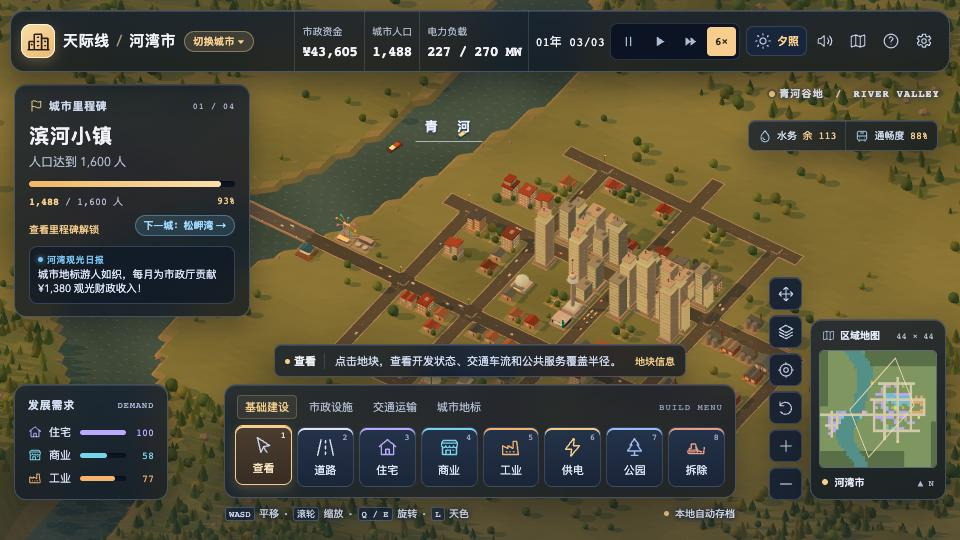
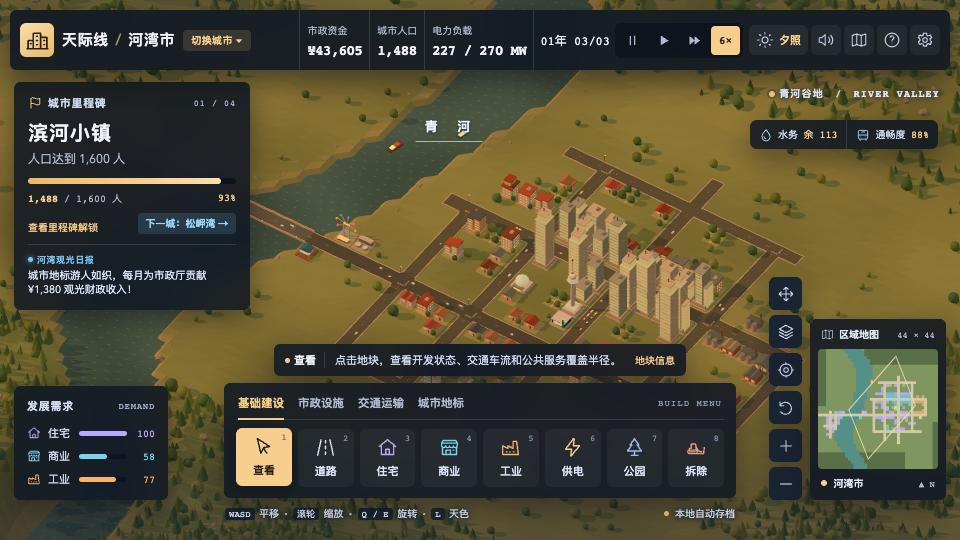
Publish 天际线 · 河湾市 to game wall

diff --git a/riverbend-skyline/index.html b/riverbend-skyline/index.html
@@ -4235,7 +4235,7 @@ void main() {
 <script>(() => {
   const THREE = window.THREE;
   const styleEl = document.createElement('style');
-  styleEl.textContent = ":root {\n  color-scheme:dark;\n  --text:#f1f2f7;\n  --muted:#aeb9ce;\n  --dim:#8e9ab3;\n  --accent:#f7ce8d;\n  --panel:#172133f5;\n  --rule:#d2e0fd25;\n  --mono:\"SFMono-Regular\",\"Cascadia Mono\",\"Consolas\",monospace;\n  font-family:\"Avenir Next\",\"PingFang SC\",\"Microsoft YaHei\",sans-serif;\n  font-synthesis:none;\n}\n* { box-sizing:border-box; }\nbody { margin:0; overflow:hidden; color:var(--text); background:#192235; user-select:none; -webkit-user-select:none; -webkit-touch-callout:none; overscroll-behavior:none; }\nbutton, input { font:inherit; }\nbutton { cursor:pointer; color:inherit; }\nbutton:focus-visible, canvas:focus-visible, input:focus-visible { outline:2px solid var(--accent); outline-offset:3px; }\n[hidden] { display:none !important; }\n.symbol-bank { display:block; width:0; height:0; position:absolute; }\n.icon { width:20px; height:20px; fill:none; stroke:currentColor; stroke-width:1.6; stroke-linecap:round; stroke-linejoin:round; flex:none; }\n#game { position:relative; width:100vw; height:100dvh; overflow:hidden; isolation:isolate; }\n#world { width:100%; height:100%; display:block; touch-action:none; cursor:crosshair; }\n#world[data-pan] { cursor:grabbing; }\n.scene-shade { position:absolute; inset:0; pointer-events:none; background:linear-gradient(180deg,#14243a30 0,transparent 18%,transparent 73%,#101d365e 100%); z-index:1; }\n.panel { background:linear-gradient(165deg,rgba(21,33,52,.82),rgba(14,23,38,.76)); border:1px solid rgba(190,214,255,.24); border-radius:12px; box-shadow:0 12px 30px rgba(7,12,24,.38), inset 0 1px rgba(255,255,255,.12); z-index:2; backdrop-filter:blur(16px) saturate(1.35); -webkit-backdrop-filter:blur(16px) saturate(1.35); }\n.topbar { height:62px; position:absolute; top:10px; left:16px; right:16px; display:flex; align-items:center; gap:14px; padding:0 16px; background:linear-gradient(180deg,rgba(19,30,48,.84),rgba(13,22,36,.78)); border:1px solid rgba(190,214,255,.26); border-radius:14px; box-shadow:0 12px 32px rgba(7,12,24,.42), inset 0 1px rgba(255,255,255,.14); backdrop-filter:blur(18px) saturate(1.4); -webkit-backdrop-filter:blur(18px) saturate(1.4); z-index:3; }\n.brand { display:flex; align-items:center; gap:11px; flex:1 0 auto; }\n.brand-row { display:flex; align-items:center; gap:8px; }\n.city-switcher { background:rgba(247,206,141,.14); border:1px solid rgba(247,206,141,.42); color:var(--accent); border-radius:999px; padding:2px 8px; font-size:10px; font-weight:600; letter-spacing:.04em; transition:background .15s,transform .15s; white-space:nowrap; }\n.city-switcher:hover { background:rgba(247,206,141,.26); transform:translateY(-1px); }\n.city-stars { color:var(--accent); letter-spacing:.08em; margin-left:4px; }\n.brand-mark { width:38px; height:38px; border-radius:10px; display:grid; place-items:center; background:linear-gradient(145deg,#fae0ab,#e8b86d); color:#2b1f14; box-shadow:0 4px 12px rgba(247,206,141,.25), inset 0 0 0 1px #fff3d6; }\n.brand-mark .icon { width:25px; height:25px; stroke-width:1.45; }\nh1 { font-size:17px; margin:0 0 2px; font-weight:700; letter-spacing:.045em; }\nh1 span { color:#a89476; font-weight:500; margin:0 2px; }\n.brand-caption { font:9px var(--mono); color:#9daac3; letter-spacing:.19em; }\n.brand-caption span { color:var(--accent); }\n.telemetry { align-self:stretch; display:flex; }\n.metric { display:flex; align-items:center; gap:9px; padding:0 clamp(11px,1.4vw,22px); background:transparent; border:0; border-left:1px solid var(--rule); color:var(--text); text-align:left; white-space:nowrap; }\nbutton.metric:hover { background:#c7dbff13; }\n.metric:last-child { border-right:1px solid var(--rule); }\n.metric-icon { width:18px; height:18px; color:#a9bad6; margin-right:1px; }\n.metric-power .metric-icon { color:#f0be83; }\n.metric-label { display:block; color:var(--muted); font-size:10px; margin-bottom:4px; }\n.metric strong { display:block; font:600 16px var(--mono); letter-spacing:-.04em; }\n.delta { color:var(--accent); font:10px var(--mono); margin-top:14px; }\n.delta.negative, .warning { color:#f4aa92; }\n.time-controls { display:flex; align-items:center; gap:14px; }\n.date { white-space:nowrap; }\n.date span { display:block; color:var(--muted); font-size:10px; margin-bottom:4px; }\n.date strong { display:block; font:12px var(--mono); }\n.speed { display:flex; align-items:center; gap:2px; background:#0c1423; border:1px solid var(--rule); border-radius:7px; padding:3px; }\n.speed button { width:29px; height:29px; border-radius:4px; border:0; background:transparent; color:#aebcd5; display:grid; place-items:center; font:600 11px var(--mono); padding:0; }\n.speed .icon { width:17px; height:17px; }\n.speed button:hover, .icon-button:hover { background:#a6c4ff26; color:var(--text); }\n.speed button[aria-pressed=true] { background:var(--accent); color:#2d2218; }\n.utilities { display:flex; gap:5px; align-items:center; }\n.icon-button { width:34px; height:34px; display:grid; place-items:center; padding:0; border:1px solid transparent; border-radius:7px; background:transparent; color:#c5d1e8; transition:background .14s,border-color .14s; }\n#lighting-button { width:auto; display:inline-flex; align-items:center; gap:5px; padding:0 9px; border-color:#b3c6ee2e; background:#19253b; }\n.util-tag { font:600 11px var(--mono); color:var(--accent); }\n#sound-button[aria-pressed=false] { opacity:.48; }\n.icon-button.panel { border-color:#b3c6ee36; background:var(--panel); }\n.icon-button.panel:hover, .icon-button[aria-expanded=true] { background:#304465; }\n.icon-button.panel[aria-pressed=true] { background:#473b31; border-color:var(--accent); color:var(--accent); }\n.icon-button .icon { width:18px; height:18px; }\n.objective { position:absolute; top:84px; left:16px; width:236px; padding:13px 14px 12px; }\n.eyebrow { color:#d5dff4; font-size:11px; font-weight:600; letter-spacing:.065em; display:flex; align-items:center; gap:6px; }\n.eyebrow .icon { width:14px; height:14px; color:var(--accent); }\n.eyebrow > span { margin-left:auto; color:#a9b8d6; font:9px var(--mono); letter-spacing:.075em; }\n.objective h2, .inspector h2 { margin:8px 0 3px; font-size:20px; letter-spacing:.05em; }\n.objective p, .inspector p { margin:0; color:var(--muted); font-size:12px; }\n.progress, .meter { border-radius:20px; background:#0c1424; box-shadow:inset 0 1px 2px #0007; overflow:hidden; }\n.progress { height:6px; margin-top:11px; }\n.progress div { height:100%; border-radius:inherit; background:linear-gradient(90deg,#f0b865,#fae0ab); width:0; transition:width .35s ease; }\n.goal-foot { display:flex; justify-content:space-between; margin-top:7px; font:10px var(--mono); color:var(--muted); }\n.goal-foot strong, #goal-percent { color:var(--accent); }\n.objective-actions { display:flex; justify-content:space-between; align-items:center; gap:6px; margin-top:5px; }\n.goal-next { border:1px solid rgba(121,197,243,.4); background:rgba(121,197,243,.14); color:#9fd8ff; border-radius:999px; font-size:10px; padding:2px 8px; font-weight:600; }\n.goal-next:hover { background:rgba(121,197,243,.26); }\n.chirper { margin-top:9px; width:100%; text-align:left; background:rgba(12,21,36,.62); border:1px solid rgba(166,207,245,.22); border-radius:8px; padding:6px 8px; display:grid; gap:2px; transition:border-color .15s,background .15s; }\n.chirper:hover { border-color:rgba(247,206,141,.5); background:rgba(19,32,52,.78); }\n.chirper-tag { font:600 9px var(--mono); color:#79c5f3; letter-spacing:.06em; display:flex; align-items:center; gap:4px; }\n.chirper-tag::before { content:\"\"; width:5px; height:5px; border-radius:50%; background:currentColor; box-shadow:0 0 6px currentColor; }\n.chirper-msg { font-size:10.5px; line-height:1.38; color:#dce6fa; display:-webkit-box; -webkit-line-clamp:2; -webkit-box-orient:vertical; overflow:hidden; }\n.view-tag { position:absolute; right:20px; top:86px; color:#f1f5ff; font:600 10px var(--mono); letter-spacing:.12em; text-shadow:0 1px 6px #152240; pointer-events:none; z-index:2; }\n.view-tag span { display:inline-block; background:#f7ce8d; border-radius:50%; width:6px; height:6px; margin-right:4px; box-shadow:0 0 0 2px #15254150; }\n.view-tag b { color:#f3d6af; margin:0 4px; }\n.world-labels { position:absolute; inset:0; pointer-events:none; z-index:1; }\n.district { position:absolute; border-radius:4px; transform:translate(-50%,-50%); background:#19263ae0; border:1px solid #bdd1f17c; color:#eef3ff; font-size:11px; font-weight:600; padding:5px 9px; white-space:nowrap; letter-spacing:.085em; box-shadow:0 3px 9px #0c122b55; transition:opacity .18s; }\n.district span { font:9px var(--mono); color:#f3cb90; border-right:1px solid #adbcdc66; padding-right:5px; margin-right:3px; }\n.water-label { border:0; border-bottom:1px solid #e8f1ffa0; border-radius:0; background:transparent; box-shadow:none; font-size:13px; letter-spacing:.25em; text-shadow:0 1px 3px #1a325c; }\n.demand { position:absolute; left:22px; bottom:40px; width:196px; padding:12px 13px 13px; }\n.demand .eyebrow { margin-bottom:11px; }\n.demand-row { display:grid; grid-template-columns:15px 25px 1fr 22px; gap:6px; align-items:center; font-size:11px; color:#d3ddf1; }\n.demand-row+.demand-row { margin-top:7px; }\n.demand-row .icon { width:14px; height:14px; color:var(--zone); }\n.demand-row b { font:10px var(--mono); color:var(--zone); text-align:right; }\n.meter { height:5px; }\n.meter i { display:block; background:var(--zone); border-radius:inherit; height:100%; transition:width .3s; }\n.map-dock { position:absolute; right:22px; bottom:40px; display:grid; grid-template-columns:auto auto; gap:8px; align-items:end; z-index:2; }\n.map-actions { display:flex; flex-direction:column; gap:5px; }\n.map-actions .icon-button { width:33px; height:33px; }\n.layer-menu { position:absolute; bottom:184px; right:0; width:147px; padding:8px; }\n.layer-menu .eyebrow { margin:4px 5px 7px; }\n.layer-menu button { display:block; width:100%; background:transparent; border:0; text-align:left; border-radius:4px; padding:7px 8px; font-size:12px; }\n.layer-menu button:hover, .layer-menu button[aria-pressed=true] { background:#f7ce8d24; color:var(--accent); }\n.minimap { width:185px; padding:8px; }\n.minimap-head, .minimap-foot { display:flex; align-items:center; gap:5px; padding:0 3px 7px; font-size:10px; color:#e3eaf9; }\n.minimap-head .icon { width:13px; height:13px; color:#b2c5e6; }\n.minimap-head span, .minimap-foot span:last-child { margin-left:auto; font:9px var(--mono); color:var(--muted); }\n.minimap canvas { width:100%; height:auto; aspect-ratio:1/1; display:block; border:1px solid #bfd2f75f; border-radius:5px; cursor:crosshair; }\n.minimap-foot { padding:7px 3px 1px; }\n.minimap-foot i, .save-status i, .toolbox-title i, .tool-state i { display:inline-block; width:6px; height:6px; border-radius:50%; background:var(--accent); margin-right:4px; vertical-align:1px; }\n.build-dock { position:absolute; bottom:19px; left:50%; transform:translateX(-50%); width:min(584px,calc(100% - 492px)); z-index:2; }\n.tool-info { margin:0 auto 7px; display:flex; align-items:center; gap:10px; width:fit-content; max-width:100%; min-height:33px; padding:6px 10px; color:#d1dcf1; font-size:11px; border-radius:7px; }\n.tool-state { white-space:nowrap; color:var(--text); border-right:1px solid var(--rule); padding-right:8px; }\n.tool-state i { width:5px; height:5px; }\n.tool-price { white-space:nowrap; color:var(--accent); font:10px var(--mono); padding-left:4px; }\n.toolbox { padding:10px; }\n.toolbox-title { display:flex; justify-content:space-between; align-items:center; padding:0 2px 8px; gap:8px; }\n.toolbox-title span { font-size:11px; font-weight:650; letter-spacing:.06em; }\n.toolbox-title i { width:5px; height:5px; }\n.toolbox-title b { color:var(--dim); font:9px var(--mono); letter-spacing:.11em; }\n.tools { display:grid; grid-template-columns:repeat(8,minmax(0,1fr)); gap:5px; }\n.tool { position:relative; border-radius:8px; min-width:0; height:60px; display:grid; justify-items:center; align-content:center; gap:4px; background:linear-gradient(180deg,rgba(36,52,78,.88),rgba(25,37,58,.88)); border:1px solid rgba(183,204,242,.18); box-shadow:inset 0 2px 0 var(--tool); padding:0; transition:background .15s,border-color .15s,transform .15s; }\n.tool .icon { width:21px; height:21px; color:var(--tool); }\n.tool span { font-size:11px; color:#e1e9fc; }\n.tool kbd { position:absolute; right:5px; top:4px; color:#9baacc; font:9px var(--mono); }\n.tool .unlock-tag { position:absolute; bottom:2px; right:3px; font:600 8px var(--mono); color:#f3cb90; background:rgba(15,23,38,.85); padding:0 3px; border-radius:3px; }\n.tool:hover { background:linear-gradient(180deg,rgba(50,72,106,.92),rgba(34,50,76,.92)); border-color:rgba(195,212,247,.45); transform:translateY(-2px); }\n.tool[aria-pressed=true] { background:linear-gradient(180deg,rgba(78,63,48,.95),rgba(56,45,35,.95)); border-color:var(--accent); box-shadow:inset 0 2px 0 var(--accent), 0 4px 12px rgba(247,206,141,.2); transform:translateY(-2px); }\n.tool[aria-pressed=true] span, .tool[aria-pressed=true] kbd { color:#ffe9c6; }\n.build-footer { display:flex; justify-content:space-between; padding:8px 1px 0; gap:8px; color:#edf2ff; font-size:10px; text-shadow:0 1px 4px #142139,0 0 10px #192843; white-space:nowrap; }\n.build-footer kbd { font:9px var(--mono); background:#142541b8; border:1px solid #bccfee55; border-radius:3px; padding:1px 3px; margin-right:2px; }\n.build-footer b { margin:0 3px; color:#c5d2ea; }\n.save-status i { width:5px; height:5px; }\n.inspector { position:absolute; width:236px; left:16px; top:298px; padding:12px 13px; z-index:2; }\n.inspector .eyebrow { justify-content:space-between; }\n.inspector .icon-button { width:24px; height:24px; margin:-5px; }\n.inspect-coord { color:var(--dim); font:10px var(--mono); border-top:1px solid var(--rule); padding-top:8px; margin-top:10px; }\n#toast { position:absolute; left:50%; top:91px; z-index:5; transform:translate(-50%,-6px); color:#eef3ff; background:#202e46; border:1px solid #f7ce8d73; border-radius:7px; padding:8px 12px; font-size:12px; opacity:0; transition:opacity .16s,transform .16s; pointer-events:none; white-space:nowrap; }\n#toast.show { opacity:1; transform:translate(-50%,0); }\n#toast.error { border-color:#eaa287; color:#ffcfbc; }\n.boot { position:absolute; inset:0; background:#121b2d; display:flex; flex-direction:column; align-items:center; justify-content:center; z-index:10; }\n.boot h2 { margin:14px 0 0; font-size:20px; }\n.boot p { color:var(--muted); margin:6px 0; font-size:13px; text-align:center; }\ndialog { width:min(430px,calc(100vw - 28px)); border:1px solid #b9ccf35c; border-radius:12px; background:#172238; color:var(--text); padding:21px; box-shadow:0 15px 80px #0008; }\ndialog::backdrop { background:#0a1325a8; backdrop-filter:blur(3px); }\n.dialog-top { display:flex; align-items:center; justify-content:space-between; }\n.dialog-top .icon-button { margin:-9px -8px -3px 0; }\ndialog h2 { margin:11px 0 14px; font-size:23px; }\ndialog p, dialog li { color:#d0dbef; font-size:13px; line-height:1.65; }\ndialog ol { padding-left:1.4em; }\ndialog li+li { margin-top:6px; }\n.dialog-grid { display:grid; grid-template-columns:1fr auto; gap:9px 12px; padding:10px 0 13px; border-bottom:1px solid var(--rule); font-size:13px; }\n.dialog-grid output { font:12px var(--mono); }\n.tax-row { display:flex; justify-content:space-between; align-items:center; margin-top:14px; font-size:13px; }\n.tax-range { width:100%; accent-color:#f7ce8d; margin:10px 0 5px; }\n.dialog-buttons { display:flex; gap:8px; flex-wrap:wrap; }\n.dialog-button { padding:8px 13px; background:#263752; border:1px solid #b6c9f052; border-radius:6px; font-size:12px; }\n.dialog-button:hover { background:#344c73; }\n.dialog-button.primary { color:#282015; background:var(--accent); }\n.dialog-button.danger { color:#ffd0bb; border-color:#edab925c; }\n\n.brand em, .brand-caption b { font:inherit; }\n.goal-detail { border:0; background:transparent; color:var(--accent); font-size:10px; padding:4px 0 0; }\n.goal-detail:hover { text-decoration:underline; }\n.objective .goal-detail { margin-top:5px; }\n.city-status { position:absolute; right:22px; top:120px; display:flex; gap:0; border-radius:7px; z-index:2; }\n.city-status button { display:flex; align-items:center; gap:5px; padding:7px 9px; background:transparent; border:0; font-size:10px; color:#d3ddf1; }\n.city-status button + button { border-left:1px solid var(--rule); }\n.city-status button:hover { background:#acc5fa16; }\n.city-status .icon { width:14px; height:14px; color:#a6cff5; }\n.city-status strong { margin-left:3px; color:var(--accent); font:10px var(--mono); }\n.city-status strong.warning { color:#ffab95; }\n.build-tabs { display:flex; gap:4px; flex-wrap:wrap; }\n.build-tabs button { background:transparent; border:1px solid transparent; border-radius:4px; padding:3px 7px; color:var(--muted); font-size:11px; }\n.build-tabs button:hover { color:var(--text); }\n.build-tabs button[aria-pressed=true] { color:var(--accent); border-color:#f7ce8d39; background:#f7ce8d12; }\n.tool.is-locked { border-style:dashed; }\n.tool.is-locked .icon, .tool.is-locked span { opacity:.63; }\n.tool .lock-icon { position:absolute; top:4px; right:4px; width:12px; height:12px; color:#e0be89; }\n.tools[data-group=services] { grid-template-columns:repeat(6,minmax(0,1fr)); }\n.tools[data-group=transport] { grid-template-columns:repeat(4,minmax(0,1fr)); }\n.tools[data-group=landmarks] { grid-template-columns:repeat(3,minmax(0,1fr)); }\n.tools[data-group=services] .tool span { font-size:10px; }\n.dialog-list { display:grid; gap:8px; max-height:52vh; overflow:auto; padding-right:2px; }\n.dialog-entry { border:1px solid var(--rule); background:rgba(16,26,43,.85); border-radius:8px; padding:10px 11px; }\n.dialog-entry + .dialog-buttons { margin-top:8px; }\n.dialog-entry-head { display:flex; justify-content:space-between; align-items:center; gap:8px; margin-bottom:4px; }\n.dialog-entry h3 { margin:0; font-size:13px; }\n.trophy-pill { font:600 10px var(--mono); color:var(--accent); background:rgba(247,206,141,.14); border:1px solid rgba(247,206,141,.35); border-radius:999px; padding:1px 7px; white-space:nowrap; }\n.slot-meta { font:10px var(--mono); color:var(--muted); margin:0 0 7px; }\n.save-textarea { width:100%; min-height:64px; background:#0d1626; border:1px solid var(--rule); border-radius:6px; color:var(--text); font:10px var(--mono); padding:6px 8px; resize:vertical; margin:6px 0; }\n.dialog-entry p { margin:0 0 7px; font-size:11px; }\n.dialog-entry .dialog-buttons { gap:6px; }\n.dialog-entry .dialog-button { padding:5px 8px; font-size:11px; }\n.dialog-stat { display:flex; justify-content:space-between; align-items:center; gap:8px; font-size:12px; padding:6px 0; border-bottom:1px solid var(--rule); }\n.dialog-stat strong { color:var(--accent); font:11px var(--mono); text-align:right; }\n.dialog-stat strong.complete { color:#92c6f5; }\n.layer-menu { max-height:min(320px,54dvh); overflow:auto; }\n\n@media(max-width:1100px) {\n  .topbar { gap:6px; padding:0 10px; left:10px; right:10px; }\n  .brand { gap:8px; }\n  .brand-mark { width:34px; height:34px; }\n  h1 { font-size:15px; white-space:nowrap; }\n  .brand-caption,.metric-icon,.date span { display:none; }\n  .time-controls { gap:5px; }\n  .metric { padding:0 7px; }\n  .metric strong { font-size:14px; }\n  .delta { display:none; }\n  .utilities { gap:3px; }\n  .icon-button { width:30px; height:30px; }\n  #lighting-button { padding:0 7px; white-space:nowrap; }\n  .build-dock { width:min(512px,calc(100% - 396px)); }\n  .minimap { width:136px; }\n  .demand { width:154px; }\n  .map-dock { right:14px; }\n  .demand,.objective,.inspector { left:14px; }\n}\n@media(max-width:850px) {\n  .brand-caption,.metric-power,.metric-icon,.date span,.util-tag { display:none; }\n  #lighting-button { width:34px; padding:0; justify-content:center; }\n  .brand { gap:8px; }\n  .brand-mark { width:31px; height:31px; }\n  .brand-mark .icon { width:20px; height:20px; }\n  h1 { font-size:14px; }\n  .topbar { height:56px; top:8px; left:10px; right:10px; }\n  .objective { top:72px; }\n  .view-tag { top:76px; }\n  #toast { top:70px; }\n  .demand,.map-dock { bottom:155px; }\n  .minimap { width:125px; }\n  .build-dock { width:min(540px,calc(100% - 30px)); }\n  .map-actions .icon-button { width:28px; height:28px; }\n  .layer-menu { bottom:171px; }\n  .city-status { right:14px; top:98px; }\n  .inspector { top:286px; }\n}\n@media(max-width:570px) {\n  .topbar { height:78px; top:6px; left:8px; right:8px; flex-wrap:wrap; align-content:space-evenly; gap:2px 4px; padding:0 9px; }\n  .brand { order:0; flex:1 1 auto; min-width:0; gap:6px; }\n  .brand-mark { width:26px; height:26px; }\n  h1 { font-size:12.5px; white-space:nowrap; }\n  .utilities { order:1; flex:0 0 auto; justify-content:flex-end; gap:2px; }\n  .city-switcher { padding:1px 5px; font-size:8.5px; }\n  .telemetry { order:2; align-self:auto; flex:1 1 52%; }\n  .metric { padding:0 8px 0 5px; border:0 !important; }\n  .metric-label { font-size:9px; margin-bottom:2px; }\n  .metric strong { font-size:12px; }\n  .time-controls { order:3; gap:5px; }\n  .date strong { font-size:9px; }\n  .speed button { width:22px; height:21px; }\n  .speed .icon { width:14px; height:14px; }\n  .utilities .icon-button { width:26px; height:26px; }\n  .objective { top:90px; left:8px; width:168px; padding:8px; }\n  .objective h2 { font-size:15px; margin-top:4px; }\n  .objective p,.goal-foot { font-size:9px; }\n  .objective-actions { gap:4px; }\n  .goal-detail,.goal-next { font-size:9px; white-space:nowrap; }\n  .progress { margin-top:5px; }\n  .chirper { margin-top:5px; padding:4px 6px; }\n  .chirper-msg { font-size:9px; -webkit-line-clamp:1; }\n  .view-tag,.minimap,.district span,.build-footer > span:first-child { display:none; }\n  .demand { left:8px; bottom:146px; width:168px; padding:6px 8px; }\n  .demand .eyebrow { display:none; }\n  .demand-row { font-size:9px; gap:4px; grid-template-columns:12px 20px 1fr 18px; }\n  .demand-row+.demand-row { margin-top:4px; }\n  .map-dock { right:8px; bottom:146px; }\n  .district { font-size:9px; }\n  .build-dock { width:calc(100% - 16px); bottom:8px; }\n  .toolbox { padding:6px; }\n  .toolbox-title { padding-bottom:6px; }\n  .tools { gap:3px; }\n  .tool { height:46px; }\n  .tool kbd { display:none; }\n  .tool .icon { width:16px; height:16px; }\n  .tool span,.tool-info { font-size:10px; }\n  .tool-info { gap:5px; padding:4px 6px; min-height:26px; }\n  .tool-price { font-size:9px; }\n  .build-footer { padding-top:5px; justify-content:flex-end; }\n  .inspector { top:264px; left:8px; width:168px; padding:8px 10px; }\n  .inspector h2 { font-size:16px; }\n  .layer-menu { bottom:1px; right:35px; }\n  #toast { top:90px; max-width:90%; white-space:normal; text-align:center; }\n  .city-status { right:8px; top:93px; flex-direction:column; }\n  .city-status button { padding:5px 6px; font-size:9px; }\n  .city-status button + button { border-left:0; border-top:1px solid var(--rule); }\n  .city-status .icon { width:12px; height:12px; }\n  .build-tabs button { padding:3px 5px; font-size:10px; }\n  .tools[data-group=services] .tool span { line-height:1.1; }\n}\n";
+  styleEl.textContent = ":root {\n  color-scheme:dark;\n  --text:#f1f2f7;\n  --muted:#aeb9ce;\n  --dim:#8e9ab3;\n  --accent:#f7ce8d;\n  --panel:#172133f5;\n  --rule:#d2e0fd25;\n  --mono:\"SFMono-Regular\",\"Cascadia Mono\",\"Consolas\",monospace;\n  font-family:\"Avenir Next\",\"PingFang SC\",\"Microsoft YaHei\",sans-serif;\n  font-synthesis:none;\n}\n* { box-sizing:border-box; }\nbody { margin:0; overflow:hidden; color:var(--text); background:#192235; user-select:none; -webkit-user-select:none; -webkit-touch-callout:none; overscroll-behavior:none; }\nbutton, input { font:inherit; }\nbutton { cursor:pointer; color:inherit; }\nbutton:focus-visible, canvas:focus-visible, input:focus-visible { outline:2px solid var(--accent); outline-offset:3px; }\n[hidden] { display:none !important; }\n.symbol-bank { display:block; width:0; height:0; position:absolute; }\n.icon { width:20px; height:20px; fill:none; stroke:currentColor; stroke-width:1.6; stroke-linecap:round; stroke-linejoin:round; flex:none; }\n#game { position:relative; width:100vw; height:100dvh; overflow:hidden; isolation:isolate; }\n#world { width:100%; height:100%; display:block; touch-action:none; cursor:crosshair; }\n#world[data-pan] { cursor:grabbing; }\n.scene-shade { position:absolute; inset:0; pointer-events:none; background:linear-gradient(180deg,#14243a30 0,transparent 18%,transparent 73%,#101d365e 100%); z-index:1; }\n.panel { background:rgba(16,24,38,.88); border:0; border-radius:6px; box-shadow:0 10px 28px rgba(5,10,20,.46); z-index:2; backdrop-filter:blur(16px) saturate(1.3); -webkit-backdrop-filter:blur(16px) saturate(1.3); }\n.topbar { height:60px; position:absolute; top:10px; left:16px; right:16px; display:flex; align-items:center; gap:14px; padding:0 16px; background:rgba(15,23,37,.9); border:0; border-radius:6px; box-shadow:0 10px 28px rgba(5,10,20,.48); backdrop-filter:blur(18px) saturate(1.35); -webkit-backdrop-filter:blur(18px) saturate(1.35); z-index:3; }\n.brand { display:flex; align-items:center; gap:11px; flex:1 0 auto; }\n.brand-row { display:flex; align-items:center; gap:8px; }\n.city-switcher { background:rgba(247,206,141,.14); border:0; color:var(--accent); border-radius:4px; padding:3px 8px; font-size:10px; font-weight:600; letter-spacing:.04em; transition:background .15s; white-space:nowrap; }\n.city-switcher:hover { background:rgba(247,206,141,.24); }\n.city-stars { color:var(--accent); letter-spacing:.08em; margin-left:4px; }\n.brand-mark { width:36px; height:36px; border-radius:6px; display:grid; place-items:center; background:linear-gradient(145deg,#fae0ab,#e8b86d); color:#2b1f14; }\n.brand-mark .icon { width:25px; height:25px; stroke-width:1.45; }\nh1 { font-size:17px; margin:0 0 2px; font-weight:700; letter-spacing:.045em; }\nh1 span { color:#a89476; font-weight:500; margin:0 2px; }\n.brand-caption { font:9px var(--mono); color:#9daac3; letter-spacing:.19em; }\n.brand-caption span { color:var(--accent); }\n.telemetry { align-self:stretch; display:flex; }\n.metric { display:flex; align-items:center; gap:9px; padding:0 clamp(11px,1.4vw,22px); background:transparent; border:0; border-left:1px solid var(--rule); color:var(--text); text-align:left; white-space:nowrap; }\nbutton.metric:hover { background:#c7dbff13; }\n.metric:last-child { border-right:1px solid var(--rule); }\n.metric-icon { width:18px; height:18px; color:#a9bad6; margin-right:1px; }\n.metric-power .metric-icon { color:#f0be83; }\n.metric-label { display:block; color:var(--muted); font-size:10px; margin-bottom:4px; }\n.metric strong { display:block; font:600 16px var(--mono); letter-spacing:-.04em; }\n.delta { color:var(--accent); font:10px var(--mono); margin-top:14px; }\n.delta.negative, .warning { color:#f4aa92; }\n.time-controls { display:flex; align-items:center; gap:14px; }\n.date { white-space:nowrap; }\n.date span { display:block; color:var(--muted); font-size:10px; margin-bottom:4px; }\n.date strong { display:block; font:12px var(--mono); }\n.speed { display:flex; align-items:center; gap:2px; background:rgba(8,14,24,.6); border:0; border-radius:6px; padding:3px; }\n.speed button { width:29px; height:29px; border-radius:4px; border:0; background:transparent; color:#aebcd5; display:grid; place-items:center; font:600 11px var(--mono); padding:0; }\n.speed .icon { width:17px; height:17px; }\n.speed button:hover, .icon-button:hover { background:rgba(255,255,255,.1); color:var(--text); }\n.speed button[aria-pressed=true] { background:var(--accent); color:#2d2218; }\n.utilities { display:flex; gap:5px; align-items:center; }\n.icon-button { width:34px; height:34px; display:grid; place-items:center; padding:0; border:0; border-radius:6px; background:rgba(255,255,255,.05); color:#c5d1e8; transition:background .14s; }\n#lighting-button { width:auto; display:inline-flex; align-items:center; gap:5px; padding:0 9px; background:rgba(255,255,255,.06); }\n.util-tag { font:600 11px var(--mono); color:var(--accent); }\n#sound-button[aria-pressed=false] { opacity:.48; }\n.icon-button.panel { border:0; background:var(--panel); }\n.icon-button.panel:hover, .icon-button[aria-expanded=true] { background:#2a3c58; }\n.icon-button.panel[aria-pressed=true] { background:var(--accent); color:#1f1810; }\n.icon-button .icon { width:18px; height:18px; }\n.objective { position:absolute; top:82px; left:16px; width:236px; padding:13px 14px 12px; }\n.eyebrow { color:#d5dff4; font-size:11px; font-weight:600; letter-spacing:.065em; display:flex; align-items:center; gap:6px; }\n.eyebrow .icon { width:14px; height:14px; color:var(--accent); }\n.eyebrow > span { margin-left:auto; color:#a9b8d6; font:9px var(--mono); letter-spacing:.075em; }\n.objective h2, .inspector h2 { margin:8px 0 3px; font-size:20px; letter-spacing:.05em; }\n.objective p, .inspector p { margin:0; color:var(--muted); font-size:12px; }\n.progress, .meter { border-radius:20px; background:#0c1424; overflow:hidden; }\n.progress { height:6px; margin-top:11px; }\n.progress div { height:100%; border-radius:inherit; background:linear-gradient(90deg,#f0b865,#fae0ab); width:0; transition:width .35s ease; }\n.goal-foot { display:flex; justify-content:space-between; margin-top:7px; font:10px var(--mono); color:var(--muted); }\n.goal-foot strong, #goal-percent { color:var(--accent); }\n.objective-actions { display:flex; justify-content:space-between; align-items:center; gap:6px; margin-top:6px; }\n.goal-next { border:0; background:rgba(121,197,243,.16); color:#9fd8ff; border-radius:4px; font-size:10px; padding:3px 8px; font-weight:600; }\n.goal-next:hover { background:rgba(121,197,243,.26); }\n.chirper { margin-top:9px; width:100%; text-align:left; background:transparent; border:0; border-top:1px solid var(--rule); border-radius:0; padding:8px 0 0; display:grid; gap:3px; transition:opacity .15s; }\n.chirper:hover { opacity:.88; }\n.chirper-tag { font:600 9px var(--mono); color:#79c5f3; letter-spacing:.06em; display:flex; align-items:center; gap:4px; }\n.chirper-tag::before { content:\"\"; width:5px; height:5px; border-radius:50%; background:currentColor; box-shadow:0 0 6px currentColor; }\n.chirper-msg { font-size:10.5px; line-height:1.38; color:#dce6fa; display:-webkit-box; -webkit-line-clamp:2; -webkit-box-orient:vertical; overflow:hidden; }\n.view-tag { position:absolute; right:20px; top:86px; color:#f1f5ff; font:600 10px var(--mono); letter-spacing:.12em; text-shadow:0 1px 6px #152240; pointer-events:none; z-index:2; }\n.view-tag span { display:inline-block; background:#f7ce8d; border-radius:50%; width:6px; height:6px; margin-right:4px; box-shadow:0 0 0 2px #15254150; }\n.view-tag b { color:#f3d6af; margin:0 4px; }\n.world-labels { position:absolute; inset:0; pointer-events:none; z-index:1; }\n.district { position:absolute; border-radius:4px; transform:translate(-50%,-50%); background:rgba(16,25,40,.86); border:0; color:#eef3ff; font-size:11px; font-weight:600; padding:5px 9px; white-space:nowrap; letter-spacing:.085em; box-shadow:0 4px 12px rgba(6,11,24,.42); transition:opacity .18s; }\n.district span { font:9px var(--mono); color:#f3cb90; border-right:1px solid #adbcdc66; padding-right:5px; margin-right:3px; }\n.water-label { border:0; border-bottom:1px solid #e8f1ffa0; border-radius:0; background:transparent; box-shadow:none; font-size:13px; letter-spacing:.25em; text-shadow:0 1px 3px #1a325c; }\n.demand { position:absolute; left:22px; bottom:40px; width:196px; padding:12px 13px 13px; }\n.demand .eyebrow { margin-bottom:11px; }\n.demand-row { display:grid; grid-template-columns:15px 25px 1fr 22px; gap:6px; align-items:center; font-size:11px; color:#d3ddf1; }\n.demand-row+.demand-row { margin-top:7px; }\n.demand-row .icon { width:14px; height:14px; color:var(--zone); }\n.demand-row b { font:10px var(--mono); color:var(--zone); text-align:right; }\n.meter { height:5px; }\n.meter i { display:block; background:var(--zone); border-radius:inherit; height:100%; transition:width .3s; }\n.map-dock { position:absolute; right:22px; bottom:40px; display:grid; grid-template-columns:auto auto; gap:8px; align-items:end; z-index:2; }\n.map-actions { display:flex; flex-direction:column; gap:5px; }\n.map-actions .icon-button { width:33px; height:33px; }\n.layer-menu { position:absolute; bottom:184px; right:0; width:147px; padding:8px; }\n.layer-menu .eyebrow { margin:4px 5px 7px; }\n.layer-menu button { display:block; width:100%; background:transparent; border:0; text-align:left; border-radius:4px; padding:7px 8px; font-size:12px; }\n.layer-menu button:hover, .layer-menu button[aria-pressed=true] { background:#f7ce8d24; color:var(--accent); }\n.minimap { width:185px; padding:8px; }\n.minimap-head, .minimap-foot { display:flex; align-items:center; gap:5px; padding:0 3px 7px; font-size:10px; color:#e3eaf9; }\n.minimap-head .icon { width:13px; height:13px; color:#b2c5e6; }\n.minimap-head span, .minimap-foot span:last-child { margin-left:auto; font:9px var(--mono); color:var(--muted); }\n.minimap canvas { width:100%; height:auto; aspect-ratio:1/1; display:block; border:0; border-radius:4px; cursor:crosshair; }\n.minimap-foot { padding:7px 3px 1px; }\n.minimap-foot i, .save-status i, .toolbox-title i, .tool-state i { display:inline-block; width:6px; height:6px; border-radius:50%; background:var(--accent); margin-right:4px; vertical-align:1px; }\n.build-dock { position:absolute; bottom:19px; left:50%; transform:translateX(-50%); width:min(584px,calc(100% - 492px)); z-index:2; }\n.tool-info { margin:0 auto 7px; display:flex; align-items:center; gap:10px; width:fit-content; max-width:100%; min-height:32px; padding:5px 11px; color:#d1dcf1; font-size:11px; border-radius:6px; }\n.tool-state { white-space:nowrap; color:var(--text); border-right:1px solid var(--rule); padding-right:8px; }\n.tool-state i { width:5px; height:5px; }\n.tool-price { white-space:nowrap; color:var(--accent); font:10px var(--mono); padding-left:4px; }\n.toolbox { padding:10px 12px 11px; }\n.toolbox-title { display:flex; justify-content:space-between; align-items:center; padding:0 2px; margin-bottom:9px; border-bottom:1px solid var(--rule); gap:8px; }\n.toolbox-title span { font-size:11px; font-weight:650; letter-spacing:.06em; }\n.toolbox-title i { width:5px; height:5px; }\n.toolbox-title b { color:var(--dim); font:9px var(--mono); letter-spacing:.11em; padding-bottom:6px; }\n.tools { display:grid; grid-template-columns:repeat(8,minmax(0,1fr)); gap:6px; }\n.tool { position:relative; border-radius:6px; min-width:0; height:58px; display:grid; justify-items:center; align-content:center; gap:5px; background:rgba(255,255,255,.045); border:0; box-shadow:none; padding:0; transition:background .14s,transform .14s; }\n.tool .icon { width:21px; height:21px; color:var(--tool); }\n.tool span { font-size:11px; color:#dce5f7; font-weight:500; }\n.tool kbd { position:absolute; right:5px; top:4px; color:#7d8dab; font:9px var(--mono); }\n.tool .unlock-tag { position:absolute; bottom:3px; right:4px; font:600 8px var(--mono); color:#e6c288; opacity:.85; }\n.tool:hover { background:rgba(255,255,255,.1); transform:translateY(-1px); }\n.tool[aria-pressed=true] { background:var(--accent); color:#1f1810; box-shadow:0 4px 12px rgba(0,0,0,.28); transform:translateY(-1px); }\n.tool[aria-pressed=true] .icon { color:#1f1810; }\n.tool[aria-pressed=true] span { color:#1f1810; font-weight:600; }\n.tool[aria-pressed=true] kbd { color:rgba(31,24,16,.68); }\n.build-footer { display:flex; justify-content:space-between; padding:8px 1px 0; gap:8px; color:#edf2ff; font-size:10px; text-shadow:0 1px 4px #142139,0 0 10px #192843; white-space:nowrap; }\n.build-footer kbd { font:9px var(--mono); background:rgba(16,26,44,.78); border:0; border-radius:3px; padding:1px 4px; margin-right:2px; }\n.build-footer b { margin:0 3px; color:#c5d2ea; }\n.save-status i { width:5px; height:5px; }\n.inspector { position:absolute; width:236px; left:16px; top:298px; padding:12px 13px; z-index:2; }\n.inspector .eyebrow { justify-content:space-between; }\n.inspector .icon-button { width:24px; height:24px; margin:-5px; }\n.inspect-coord { color:var(--dim); font:10px var(--mono); border-top:1px solid var(--rule); padding-top:8px; margin-top:10px; }\n#toast { position:absolute; left:50%; top:91px; z-index:5; transform:translate(-50%,-6px); color:#eef3ff; background:rgba(22,33,52,.94); border:0; box-shadow:0 8px 24px rgba(0,0,0,.42); border-radius:6px; padding:8px 14px; font-size:12px; opacity:0; transition:opacity .16s,transform .16s; pointer-events:none; white-space:nowrap; }\n#toast.show { opacity:1; transform:translate(-50%,0); }\n#toast.error { background:rgba(72,28,28,.94); color:#ffd4c4; }\n.boot { position:absolute; inset:0; background:#121b2d; display:flex; flex-direction:column; align-items:center; justify-content:center; z-index:10; }\n.boot h2 { margin:14px 0 0; font-size:20px; }\n.boot p { color:var(--muted); margin:6px 0; font-size:13px; text-align:center; }\ndialog { width:min(430px,calc(100vw - 28px)); border:0; border-radius:8px; background:#172238; color:var(--text); padding:21px; box-shadow:0 18px 64px rgba(0,0,0,.6); }\ndialog::backdrop { background:#0a1325a8; backdrop-filter:blur(3px); }\n.dialog-top { display:flex; align-items:center; justify-content:space-between; }\n.dialog-top .icon-button { margin:-9px -8px -3px 0; }\ndialog h2 { margin:11px 0 14px; font-size:23px; }\ndialog p, dialog li { color:#d0dbef; font-size:13px; line-height:1.65; }\ndialog ol { padding-left:1.4em; }\ndialog li+li { margin-top:6px; }\n.dialog-grid { display:grid; grid-template-columns:1fr auto; gap:9px 12px; padding:10px 0 13px; border-bottom:1px solid var(--rule); font-size:13px; }\n.dialog-grid output { font:12px var(--mono); }\n.tax-row { display:flex; justify-content:space-between; align-items:center; margin-top:14px; font-size:13px; }\n.tax-range { width:100%; accent-color:#f7ce8d; margin:10px 0 5px; }\n.dialog-buttons { display:flex; gap:8px; flex-wrap:wrap; }\n.dialog-button { padding:8px 13px; background:rgba(255,255,255,.08); border:0; border-radius:5px; font-size:12px; }\n.dialog-button:hover { background:rgba(255,255,255,.14); }\n.dialog-button.primary { color:#282015; background:var(--accent); font-weight:600; }\n.dialog-button.danger { color:#ffd0bb; background:rgba(237,120,90,.18); }\n\n.brand em, .brand-caption b { font:inherit; }\n.goal-detail { border:0; background:transparent; color:var(--accent); font-size:10px; padding:4px 0 0; }\n.goal-detail:hover { text-decoration:underline; }\n.objective .goal-detail { margin-top:5px; }\n.city-status { position:absolute; right:22px; top:120px; display:flex; gap:0; border-radius:7px; z-index:2; }\n.city-status button { display:flex; align-items:center; gap:5px; padding:7px 9px; background:transparent; border:0; font-size:10px; color:#d3ddf1; }\n.city-status button + button { border-left:1px solid var(--rule); }\n.city-status button:hover { background:#acc5fa16; }\n.city-status .icon { width:14px; height:14px; color:#a6cff5; }\n.city-status strong { margin-left:3px; color:var(--accent); font:10px var(--mono); }\n.city-status strong.warning { color:#ffab95; }\n.build-tabs { display:flex; gap:14px; flex-wrap:wrap; }\n.build-tabs button { position:relative; background:transparent; border:0; border-radius:0; padding:2px 0 8px; color:var(--muted); font-size:11.5px; font-weight:600; transition:color .14s; }\n.build-tabs button:hover { color:var(--text); }\n.build-tabs button[aria-pressed=true] { color:var(--accent); background:transparent; }\n.build-tabs button[aria-pressed=true]::after { content:\"\"; position:absolute; left:0; right:0; bottom:-1px; height:2px; background:var(--accent); }\n.tool.is-locked { background:rgba(255,255,255,.02); }\n.tool.is-locked .icon, .tool.is-locked span { opacity:.42; }\n.tool .lock-icon { position:absolute; top:4px; right:4px; width:12px; height:12px; color:#e0be89; opacity:.65; }\n.tools[data-group=services] { grid-template-columns:repeat(6,minmax(0,1fr)); }\n.tools[data-group=transport] { grid-template-columns:repeat(4,minmax(0,1fr)); }\n.tools[data-group=landmarks] { grid-template-columns:repeat(3,minmax(0,1fr)); }\n.tools[data-group=services] .tool span { font-size:10px; }\n.dialog-list { display:grid; gap:8px; max-height:52vh; overflow:auto; padding-right:2px; }\n.dialog-entry { border:0; background:rgba(255,255,255,.045); border-radius:6px; padding:10px 12px; }\n.dialog-entry + .dialog-buttons { margin-top:8px; }\n.dialog-entry-head { display:flex; justify-content:space-between; align-items:center; gap:8px; margin-bottom:4px; }\n.dialog-entry h3 { margin:0; font-size:13px; }\n.trophy-pill { font:600 10px var(--mono); color:var(--accent); background:rgba(247,206,141,.14); border:0; border-radius:4px; padding:2px 7px; white-space:nowrap; }\n.slot-meta { font:10px var(--mono); color:var(--muted); margin:0 0 7px; }\n.save-textarea { width:100%; min-height:64px; background:rgba(8,14,24,.7); border:1px solid var(--rule); border-radius:4px; color:var(--text); font:10px var(--mono); padding:6px 8px; resize:vertical; margin:6px 0; }\n.dialog-entry p { margin:0 0 7px; font-size:11px; }\n.dialog-entry .dialog-buttons { gap:6px; }\n.dialog-entry .dialog-button { padding:5px 8px; font-size:11px; }\n.dialog-stat { display:flex; justify-content:space-between; align-items:center; gap:8px; font-size:12px; padding:6px 0; border-bottom:1px solid var(--rule); }\n.dialog-stat strong { color:var(--accent); font:11px var(--mono); text-align:right; }\n.dialog-stat strong.complete { color:#92c6f5; }\n.layer-menu { max-height:min(320px,54dvh); overflow:auto; }\n\n@media(max-width:1100px) {\n  .topbar { gap:6px; padding:0 10px; left:10px; right:10px; }\n  .brand { gap:8px; }\n  .brand-mark { width:34px; height:34px; }\n  h1 { font-size:15px; white-space:nowrap; }\n  .brand-caption,.metric-icon,.date span { display:none; }\n  .time-controls { gap:5px; }\n  .metric { padding:0 7px; }\n  .metric strong { font-size:14px; }\n  .delta { display:none; }\n  .utilities { gap:3px; }\n  .icon-button { width:30px; height:30px; }\n  #lighting-button { padding:0 7px; white-space:nowrap; }\n  .build-dock { width:min(512px,calc(100% - 396px)); }\n  .minimap { width:136px; }\n  .demand { width:154px; }\n  .map-dock { right:14px; }\n  .demand,.objective,.inspector { left:14px; }\n}\n@media(max-width:850px) {\n  .brand-caption,.metric-power,.metric-icon,.date span,.util-tag { display:none; }\n  #lighting-button { width:34px; padding:0; justify-content:center; }\n  .brand { gap:8px; }\n  .brand-mark { width:31px; height:31px; }\n  .brand-mark .icon { width:20px; height:20px; }\n  h1 { font-size:14px; }\n  .topbar { height:56px; top:8px; left:10px; right:10px; }\n  .objective { top:72px; }\n  .view-tag { top:76px; }\n  #toast { top:70px; }\n  .demand,.map-dock { bottom:155px; }\n  .minimap { width:125px; }\n  .build-dock { width:min(540px,calc(100% - 30px)); }\n  .map-actions .icon-button { width:28px; height:28px; }\n  .layer-menu { bottom:171px; }\n  .city-status { right:14px; top:98px; }\n  .inspector { top:286px; }\n}\n@media(max-width:570px) {\n  .topbar { height:78px; top:6px; left:8px; right:8px; flex-wrap:wrap; align-content:space-evenly; gap:2px 4px; padding:0 9px; }\n  .brand { order:0; flex:1 1 auto; min-width:0; gap:6px; }\n  .brand-mark { width:26px; height:26px; }\n  h1 { font-size:12.5px; white-space:nowrap; }\n  .utilities { order:1; flex:0 0 auto; justify-content:flex-end; gap:2px; }\n  .city-switcher { padding:1px 5px; font-size:8.5px; }\n  .telemetry { order:2; align-self:auto; flex:1 1 52%; }\n  .metric { padding:0 8px 0 5px; border:0 !important; }\n  .metric-label { font-size:9px; margin-bottom:2px; }\n  .metric strong { font-size:12px; }\n  .time-controls { order:3; gap:5px; }\n  .date strong { font-size:9px; }\n  .speed button { width:22px; height:21px; }\n  .speed .icon { width:14px; height:14px; }\n  .utilities .icon-button { width:26px; height:26px; }\n  .objective { top:90px; left:8px; width:168px; padding:8px; }\n  .objective h2 { font-size:15px; margin-top:4px; }\n  .objective p,.goal-foot { font-size:9px; }\n  .objective-actions { gap:4px; }\n  .goal-detail,.goal-next { font-size:9px; white-space:nowrap; }\n  .progress { margin-top:5px; }\n  .chirper { margin-top:5px; padding:4px 6px; }\n  .chirper-msg { font-size:9px; -webkit-line-clamp:1; }\n  .view-tag,.minimap,.district span,.build-footer > span:first-child { display:none; }\n  .demand { left:8px; bottom:146px; width:168px; padding:6px 8px; }\n  .demand .eyebrow { display:none; }\n  .demand-row { font-size:9px; gap:4px; grid-template-columns:12px 20px 1fr 18px; }\n  .demand-row+.demand-row { margin-top:4px; }\n  .map-dock { right:8px; bottom:146px; }\n  .district { font-size:9px; }\n  .build-dock { width:calc(100% - 16px); bottom:8px; }\n  .toolbox { padding:6px; }\n  .toolbox-title { padding-bottom:6px; }\n  .tools { gap:3px; }\n  .tool { height:46px; }\n  .tool kbd { display:none; }\n  .tool .icon { width:16px; height:16px; }\n  .tool span,.tool-info { font-size:10px; }\n  .tool-info { gap:5px; padding:4px 6px; min-height:26px; }\n  .tool-price { font-size:9px; }\n  .build-footer { padding-top:5px; justify-content:flex-end; }\n  .inspector { top:264px; left:8px; width:168px; padding:8px 10px; }\n  .inspector h2 { font-size:16px; }\n  .layer-menu { bottom:1px; right:35px; }\n  #toast { top:90px; max-width:90%; white-space:normal; text-align:center; }\n  .city-status { right:8px; top:93px; flex-direction:column; }\n  .city-status button { padding:5px 6px; font-size:9px; }\n  .city-status button + button { border-left:0; border-top:1px solid var(--rule); }\n  .city-status .icon { width:12px; height:12px; }\n  .build-tabs button { padding:3px 5px; font-size:10px; }\n  .tools[data-group=services] .tool span { line-height:1.1; }\n}\n";
   document.head.appendChild(styleEl);
 
   const initialCanvas = document.getElementById('game');
